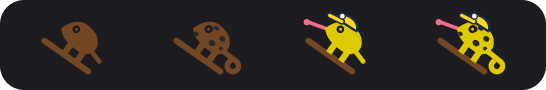
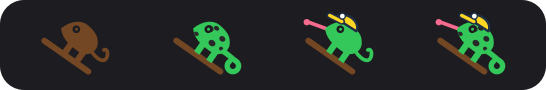
content: green chameleon with the open-curl resting tail
Claude-Session: https://claude.ai/code/session_01EwCsxHNg9UuBw5TRqP2eBv

diff --git a/site/apps/vpn-dns/index.html b/site/apps/vpn-dns/index.html
@@ -4,11 +4,11 @@
   <meta charset="utf-8">
   <meta name="viewport" content="width=device-width, initial-scale=1">
   <title>VPN &amp; DNS — Menubarn</title>
-  <meta name="description" content="One chameleon for Mullvad VPN and Tailscale: spots and a curled tail when Tailscale is on, yellow in a hard hat with its tongue out when the Mullvad tunnel is up. A sectioned menu covers both, and a watcher keeps DNS working when the two run at once.">
+  <meta name="description" content="One chameleon for Mullvad VPN and Tailscale: green with spots and a looped tail when Tailscale is on, green in a yellow hard hat with its tongue out when the Mullvad tunnel is up. A sectioned menu covers both, and a watcher keeps DNS working when the two run at once.">
   <meta name="theme-color" content="#0b0d12">
   <meta property="og:type" content="article">
   <meta property="og:title" content="VPN &amp; DNS — Menubarn">
-  <meta property="og:description" content="One chameleon for Mullvad VPN and Tailscale: spots and a curled tail when Tailscale is on, yellow in a hard hat with its tongue out when the Mullvad tunnel is up. A sectioned menu covers both, and a watcher keeps DNS working when the two run at once.">
+  <meta property="og:description" content="One chameleon for Mullvad VPN and Tailscale: green with spots and a looped tail when Tailscale is on, green in a yellow hard hat with its tongue out when the Mullvad tunnel is up. A sectioned menu covers both, and a watcher keeps DNS working when the two run at once.">
   <meta property="og:image" content="https://widgets.nicksmith.software/img/mascots/vpn-dns.png">
   <meta property="og:url" content="https://widgets.nicksmith.software/apps/vpn-dns/">
   <meta name="twitter:card" content="summary">
@@ -39,7 +39,7 @@
     <div>
       <p class="eyebrow">A Menubarn widget</p>
       <h1>VPN &amp; DNS</h1>
-      <p class="lede">One chameleon for Mullvad VPN and Tailscale: spots and a curled tail when Tailscale is on, yellow in a hard hat with its tongue out when the Mullvad tunnel is up. A sectioned menu covers both, and a watcher keeps DNS working when the two run at once.</p>
+      <p class="lede">One chameleon for Mullvad VPN and Tailscale: green with spots and a looped tail when Tailscale is on, green in a yellow hard hat with its tongue out when the Mullvad tunnel is up. A sectioned menu covers both, and a watcher keeps DNS working when the two run at once.</p>
       <p class="chips"><span>StatusItemKit</span></p>
       <div class="cta">
         <a class="btn btn-primary" href="#install">Install</a>
@@ -53,8 +53,8 @@
   <div class="app-glance">
     <div class="glance">
       <h2>In the menu bar</h2>
-      <img class="glance-strip" src="../../img/glyphs/vpn-dns.png" alt="VPN and DNS chameleon on its stick: brown, spotted with a curled tail, yellow in a hard hat with its tongue out, then both">
-      <p>Brown on its stick when idle. Spots and a curled tail for Tailscale, a hard hat and a tongue for Mullvad, all of it for both.</p>
+      <img class="glance-strip" src="../../img/glyphs/vpn-dns.png" alt="VPN and DNS chameleon on its stick: brown, green and spotted with a looped tail, green in a yellow hard hat with its tongue out, then both">
+      <p>Brown on its stick when idle, green when connected. Spots and a looped tail for Tailscale, a hard hat and a tongue for Mullvad, all of it for both.</p>
     </div>
     <div class="glance">
       <h2>The menu</h2>
@@ -79,10 +79,11 @@ Mullvad/Tailscale menu-bar icons (e.g. with
 <p>It hangs onto a brown stick and is brown like the stick while nothing is
 connected.</p>
 <ul>
-<li><strong>Tailscale running:</strong> it grows dark spots (Tailscale's own icon is dots)
-  and its tail curls. Otherwise the tail is short and straight.</li>
-<li><strong>Mullvad connected:</strong> it turns yellow, puts on a yellow hard hat with a headlamp, and its tongue flicks out.</li>
-<li><strong>Both:</strong> yellow with spots, hard hat on, tongue out, tail curled.</li>
+<li><strong>Tailscale running:</strong> it turns green with dark spots (Tailscale's own icon
+  is dots) and its tail curls into a loop. Otherwise the tail is a long, open
+  curl.</li>
+<li><strong>Mullvad connected:</strong> it turns green, puts on a yellow hard hat with a headlamp, and its tongue flicks out.</li>
+<li><strong>Both:</strong> green with spots, hard hat on, tongue out, tail looped.</li>
 <li>Mullvad's in-between states still show as the dot's colours: orange while
   connecting or disconnecting, red when blocked.</li>
 </ul>

diff --git a/site/index.html b/site/index.html
@@ -75,8 +75,8 @@
 
     <a class="card" href="apps/vpn-dns/" data-repo="https://github.com/nicholaspsmith/vpn-dns-menubar">
       <div class="card-top"><img class="mascot" src="img/mascots/vpn-dns.png" alt="" width="72" height="72"><div><h3>VPN &amp; DNS</h3><p class="chips"><span>StatusItemKit</span></p></div></div>
-      <div class="inbar"><img src="img/glyphs/vpn-dns.png" alt="VPN and DNS chameleon on its stick: brown, spotted with a curled tail, yellow in a hard hat with its tongue out, then both" loading="lazy"><p>Brown on its stick when idle. Spots and a curled tail for Tailscale, a hard hat and a tongue for Mullvad, all of it for both.</p></div>
-      <p>One chameleon for Mullvad VPN and Tailscale: spots and a curled tail when Tailscale is on, yellow in a hard hat with its tongue out when the Mullvad tunnel is up. A sectioned menu covers both, and a watcher keeps DNS working when the two run at once.</p>
+      <div class="inbar"><img src="img/glyphs/vpn-dns.png" alt="VPN and DNS chameleon on its stick: brown, green and spotted with a looped tail, green in a yellow hard hat with its tongue out, then both" loading="lazy"><p>Brown on its stick when idle, green when connected. Spots and a looped tail for Tailscale, a hard hat and a tongue for Mullvad, all of it for both.</p></div>
+      <p>One chameleon for Mullvad VPN and Tailscale: green with spots and a looped tail when Tailscale is on, green in a yellow hard hat with its tongue out when the Mullvad tunnel is up. A sectioned menu covers both, and a watcher keeps DNS working when the two run at once.</p>
       <div class="shot"><img src="img/menus/vpn-dns.png" alt="The VPN &amp; DNS menu" loading="lazy"></div>
     </a>
 
